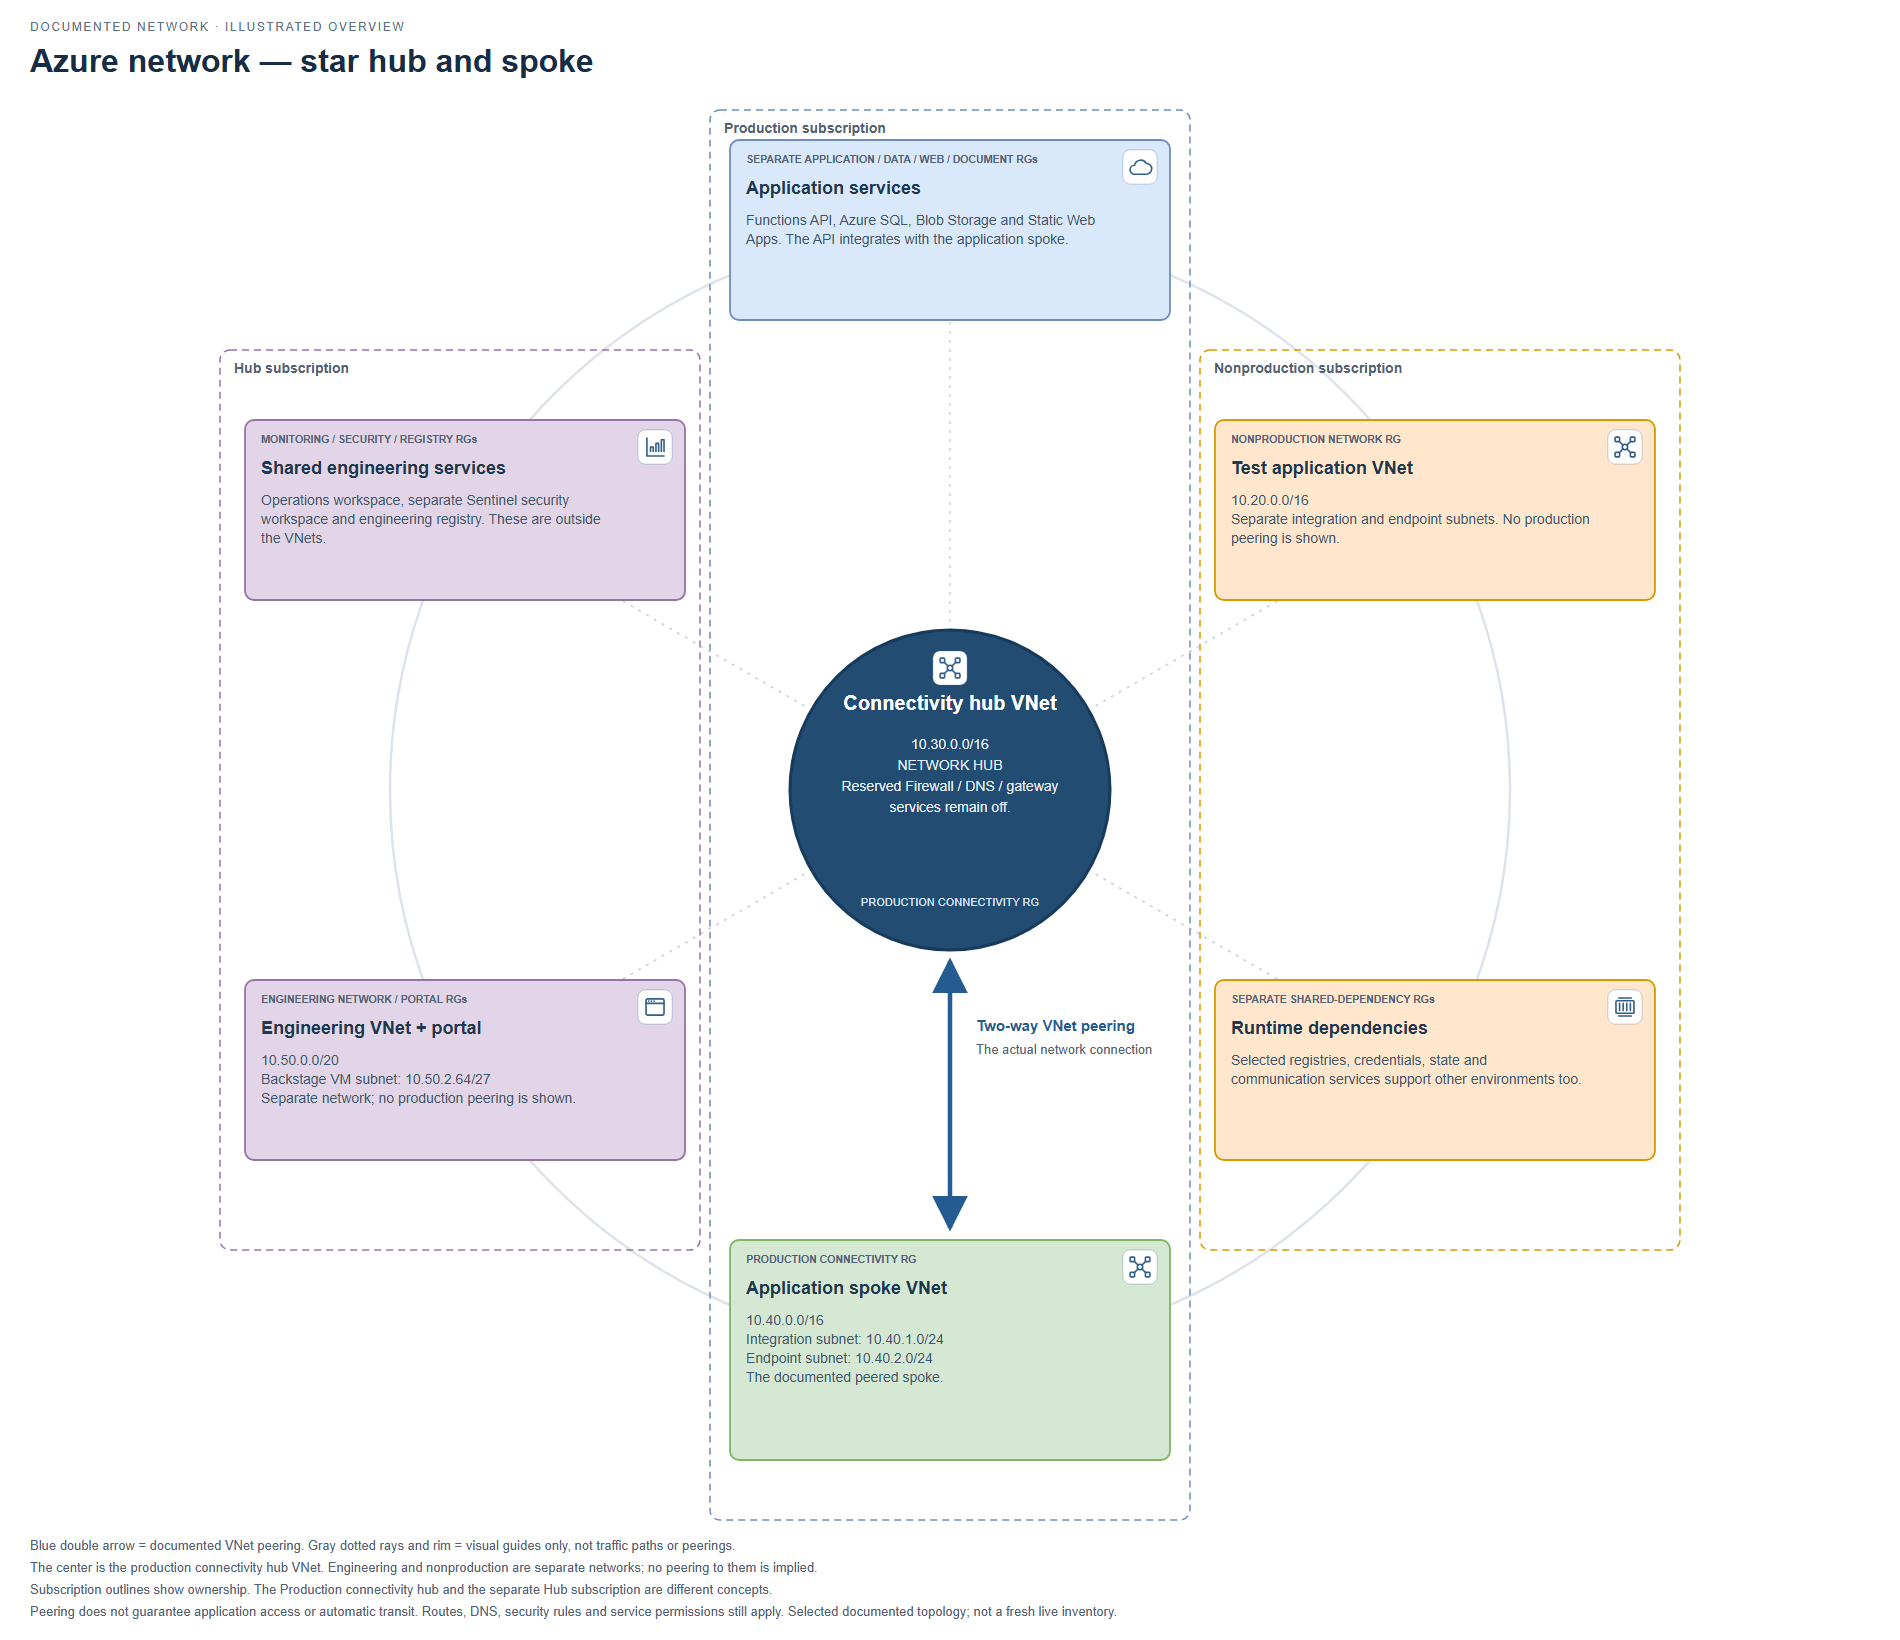
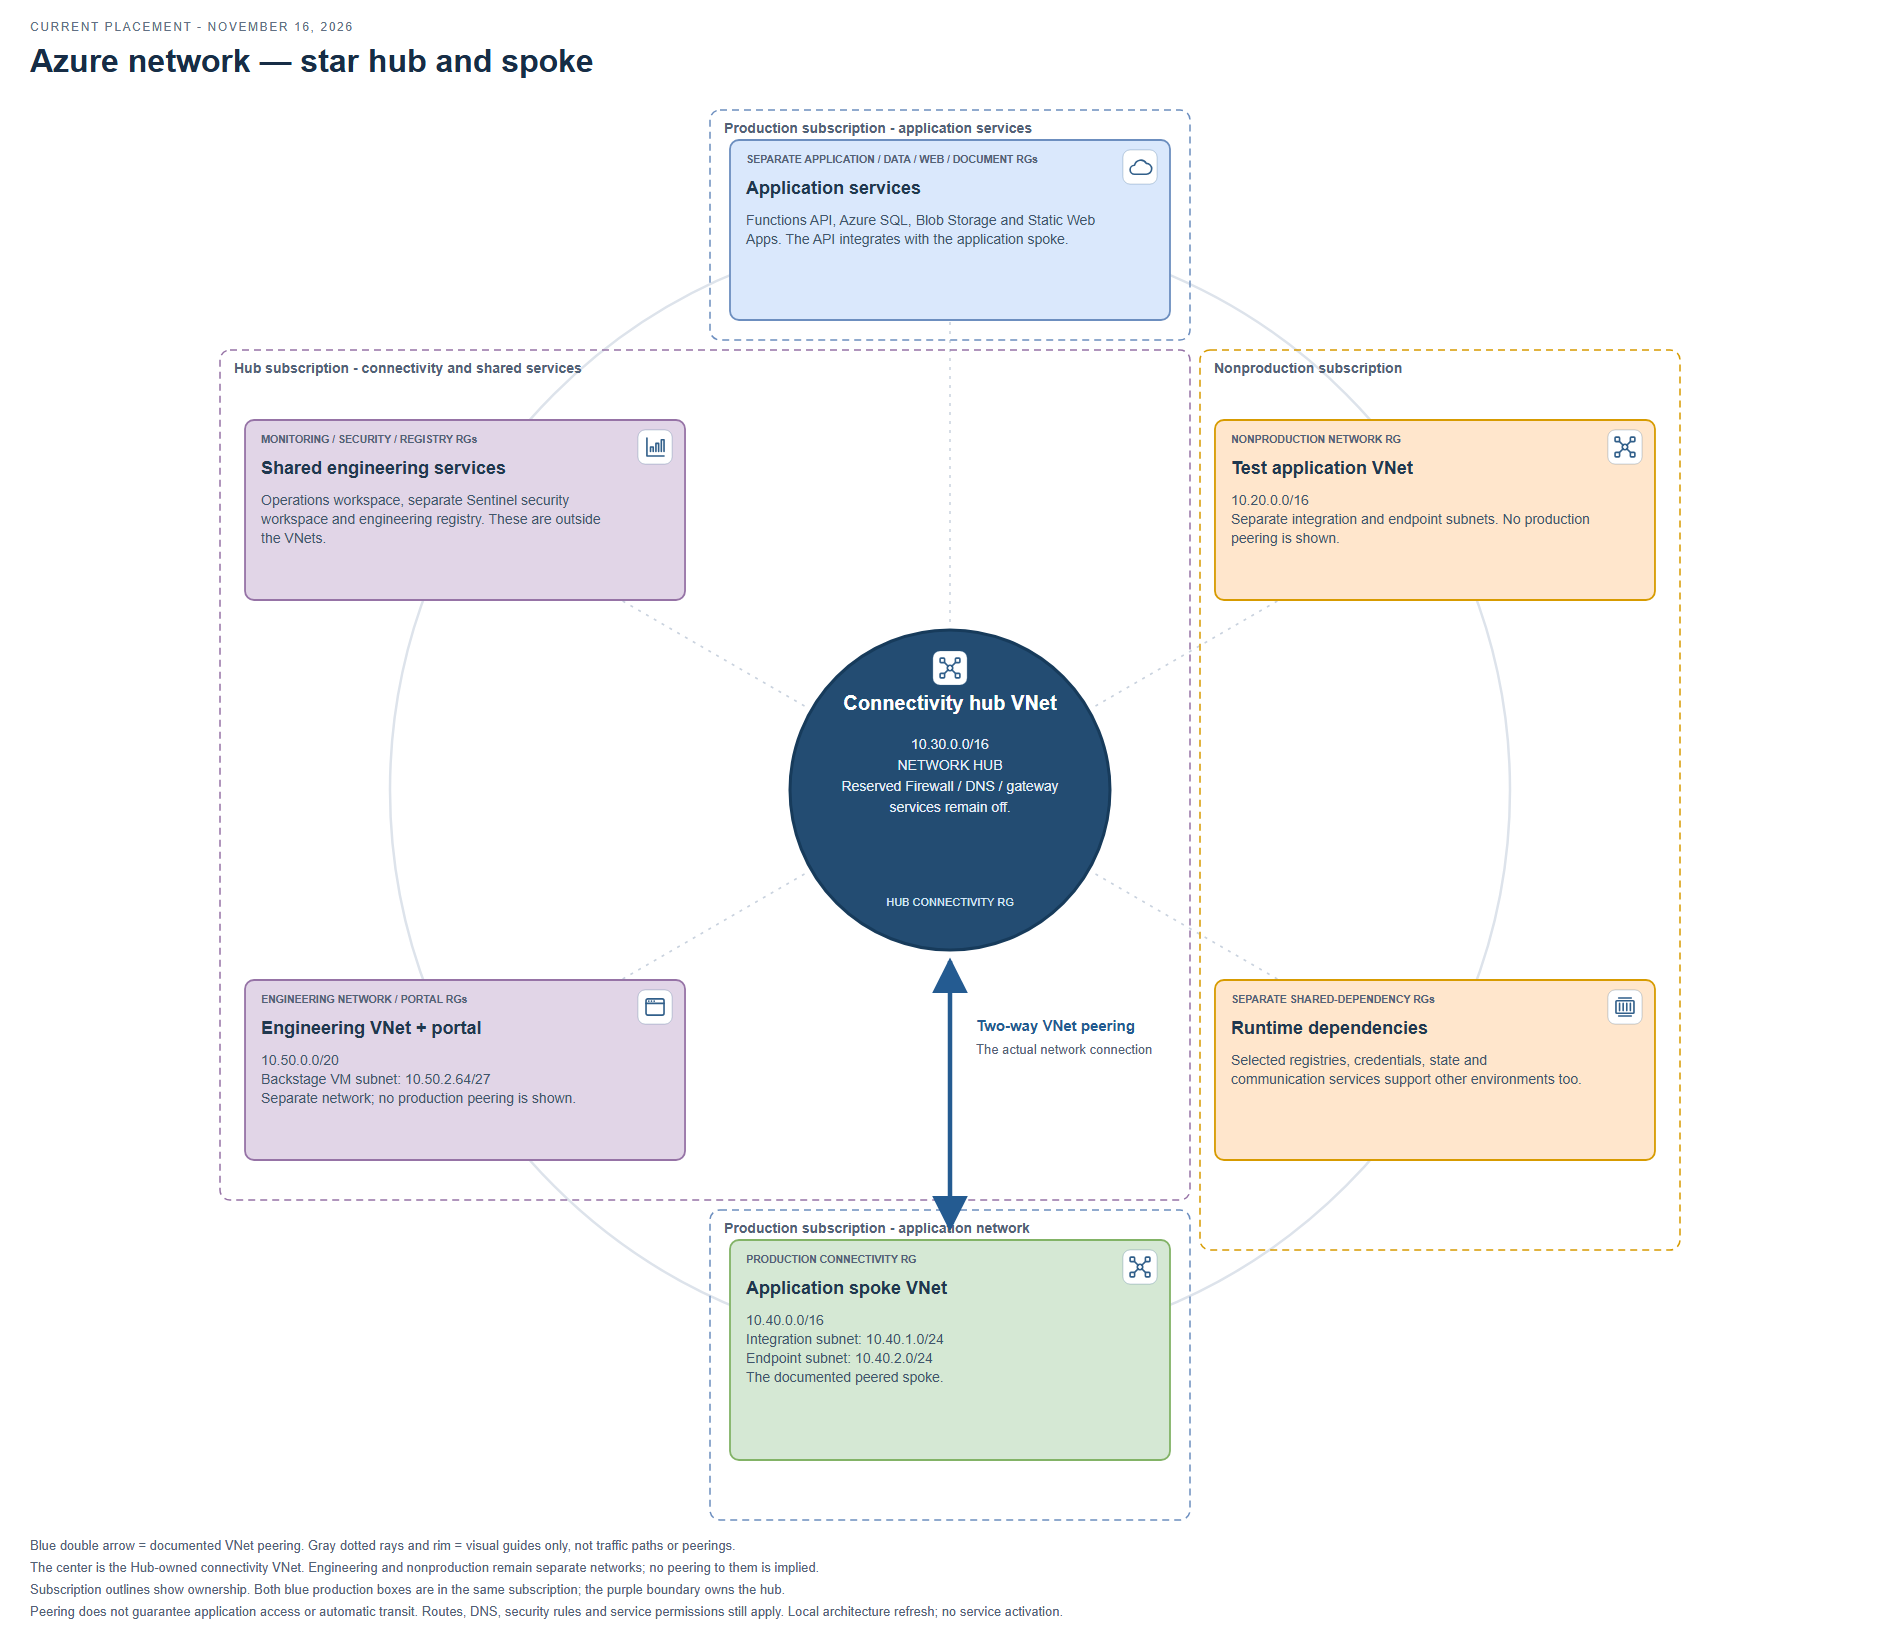
Refresh current hub subscription architecture diagram and guidance

diff --git a/README.md b/README.md
@@ -10,8 +10,10 @@
 
 > **Placement update - November 16, 2026:** the existing connectivity hub VNet
 > has moved into the Hub subscription; the application spoke remains in production.
-> Both peerings are Connected. The approved diagram and public source excerpts
-> below retain the pre-move placement as a teaching reference. See the
+> Both peerings are Connected. The diagram now shows this current ownership:
+> both blue boxes share the production subscription; the purple Hub boundary
+> contains the central VNet. The standalone Terraform lab retains its pre-move
+> single-subscription setup and is not the live state owner. See the
 > [completed migration and evidence limits](docs/ARCHITECTURE.md#connectivity-hub-subscription-placement---completed-november-16-2026).
 
 ## The Business Problem
@@ -30,14 +32,14 @@ Use a central network, called a hub, and a separate application network, called 
 
 ### Actual implementation
 
-- Production hub: **10.30.0.0/16**, peered in both directions with the production application spoke, **10.40.0.0/16**.
+- Hub-owned connectivity VNet: **10.30.0.0/16**, peered in both directions with the production-owned application spoke, **10.40.0.0/16**.
 - Production integration subnet: **10.40.1.0/24**; endpoint subnet: **10.40.2.0/24**; future integration reservation: **10.40.3.0/24**.
 - Separate nonproduction application network: **10.20.0.0/16**, using the reusable module.
 - Separate shared engineering-services VNet: **10.50.0.0/20**, owned by a different infrastructure root. The selected source does not define a production peering for this VNet.
 - Both production peerings allow VNet access and keep forwarded traffic, gateway transit and remote-gateway use **Off**.
 - Firewall, resolver and gateway subnet reservations do **not** create those services.
 
-The project includes actual selected Terraform with example resource names, plus a small new offline topology viewer and address-policy checks. This is evidence based on the source code, not a fresh Azure inventory or live packet test. [Source mapping](docs/SOURCE-MAP.md).
+The project includes selected pre-move Terraform with example resource names, a current ownership diagram, an offline topology viewer and address-policy checks. This is evidence based on the source code, not a fresh Azure inventory or live packet test. [Source mapping](docs/SOURCE-MAP.md).
 
 ## Tools Used and What They Do
 
@@ -273,7 +275,7 @@ The isolated boxes are deliberate: the selected source does not prove a route fr
 | Component | Purpose | Source |
 | --- | --- | --- |
 | Reusable network module | Resource group, VNet, delegated Functions integration and endpoint subnet | [Module](infra/modules/network/) |
-| Production hub and spoke | Actual address plan, reservations and peering configured in both directions | [Hub](infra/modules/foundation/hub.tf) · [Spoke](infra/modules/foundation/network.tf) |
+| Pre-move hub/spoke Terraform reference | Actual address plan, reservations and peering intent; retained single-root lab ownership | [Hub](infra/modules/foundation/hub.tf) · [Spoke](infra/modules/foundation/network.tf) |
 | Default-Off public wrapper | Make local validation reproducible without selecting cloud resources by default | [Root](infra/main.tf) |
 | Nonproduction network reference | Show environment-specific inputs to the same module | [Source](reference/nonproduction/network.tf) |
 | Shared engineering VNet reference | Show separate network ownership and reserved managed-service subnets | [Source](reference/shared-services/network.tf) |

diff --git a/docs/SOURCE-MAP.md b/docs/SOURCE-MAP.md
@@ -7,7 +7,7 @@
 | Source area | Public use | Adaptation |
 | --- | --- | --- |
 | Reusable network module | Executable Terraform module | Names retained internally where historical addresses matter; added read-only address-space output for inspection |
-| Production network + hub | Executable selected foundation | Neutral resource labels; network module relative path moved |
+| Pre-move production network + hub | Executable single-root lab foundation | Neutral labels; address plan/peering preserved, current cross-subscription state ownership is documented separately |
 | Owning production root context | New standalone wrapper | Public variables/tags/provider; outer activation defaults Off; no remote backend or live input file |
 | Nonproduction module call | Reference only | Neutral labels; owning-root context omitted |
 | Engineering-services network | Reference only | Neutral labels; no claimed production peering |
@@ -18,3 +18,12 @@
 The offline checks are deliberately narrow. They validate address consistency and selected source settings; they are not a Terraform parser, Azure route calculator or firewall/authentication simulator. Missing peerings mean “not defined in this selected source,” not proof that no alternative live route can exist anywhere.
 
 The shared-service resource definitions contain partial historical context. They establish declaration patterns, not a fresh live drift or permission readback. Infrastructure adoption and live source reconciliation require the actual owning state; this standalone example supplies no migration plan for those resources.
+
+## Current diagram - November 16, 2026
+
+The three architecture formats describe the accepted post-move placement: the
+connectivity VNet is Hub-owned, the application spoke stays production-owned,
+and the separate engineering VNet is unchanged. They replace the prior primary
+diagram in place. The original machine source map still identifies the retained
+Terraform excerpts; it is not a new source/state snapshot for the completed move.
+No private subscription IDs, state, credentials or employee data were added.

diff --git a/docs/ARCHITECTURE.md b/docs/ARCHITECTURE.md
@@ -46,12 +46,21 @@ readback verified the new IDs, subnet policies, peerings, unchanged engineering
 network, released state locks and production API HTTP 200. This does not claim
 a routed-packet test from the empty hub.
 
-**Reference boundary:** the approved November 15 diagrams and public Terraform
-excerpts remain pre-move teaching references. Their address plan and peering
-intent still apply; their subscription/group placement and single-root ownership
-must not be read as today's live placement. Do not apply this public example to
-adopt or modify the existing deployment. Updated artwork requires a separate
-preview; this closeout changes documentation only.
+**Diagram and code boundary:** the PNG, SVG and editable draw.io now show the
+accepted November 16 placement. The central VNet is inside the Hub subscription
+boundary. The two separated blue boxes have the same production subscription
+owner; they are not two subscriptions. The wheel positions, purpose icons and
+actual peering relationship are preserved. Gray dotted rays are visual guides,
+not routes or new peerings.
+
+The public Terraform excerpts and offline model remain the pre-move teaching
+reference. Their address plan and peering intent still apply, but their
+single-root ownership is not today's live state layout. The live connectivity
+root/state owns both peer children across subscriptions; it is separate from
+production's application-spoke owner and Hub monitoring. Backend storage location
+does not determine resource subscription ownership. Do not apply this public lab
+to adopt or modify the existing deployment. No cloud operation is performed by
+publishing the diagram. See [source mapping](SOURCE-MAP.md).
 
 See [Azure networking move limitations](https://learn.microsoft.com/en-us/azure/azure-resource-manager/management/move-limitations/networking-move-limitations),
 [changed IDs, dependencies and role-assignment requirements](https://learn.microsoft.com/en-us/azure/azure-resource-manager/management/move-resource-group-and-subscription),

diff --git a/docs/VALIDATION.md b/docs/VALIDATION.md
@@ -51,3 +51,18 @@ Documentation checks passed for both repositories: local links, balanced code fe
 Clarified the public recursive/authoritative resolution sequence and the difference between optional endpoint DNS metadata and actual NIC addresses. Added a guarded read-only NIC inspection example, link-state output, caller-level resolver caveats and companion wording corrections. Azure CLI help was inspected using a separate temporary configuration directory; no account or cloud resource was changed.
 
 The original dated inventory remains the evidence source; this review did not perform a new Azure inventory, private caller test or deployment. Functional test counts and screenshots remain unchanged.
+
+## Current architecture publication - November 16, 2026
+
+The primary PNG, SVG and draw.io were replaced with the reviewed current
+Hub-subscription placement. Model containment, label bounds, editable parent/edge
+references and PNG rendering were checked before publication; the PNG was
+visually reviewed. Icons, physical node positions and the actual peering edge
+were preserved. README, architecture, placement and source-map notes now agree.
+
+The same 14 offline topology tests and six-row demonstration passed again. Local
+Markdown destinations, diagram XML, private-identifier guards and whitespace
+checks passed. No Terraform source, source snapshot, cloud resource, service
+power state, paid network service or message changed. The existing workflow is
+manual-only and was not dispatched. These checks do not prove live packet flow
+or every caller's private path; earlier cloud acceptance retains its stated date.

diff --git a/docs/SHARED-SERVICES.md b/docs/SHARED-SERVICES.md
@@ -6,6 +6,12 @@ Treat three questions separately: who owns a resource, which network it uses, an
 
 ## Connectivity hub
 
+The November 16 move put the existing Central US connectivity VNet in the Hub
+subscription. The application spoke remains production-owned, and the engineering
+VNet remains separate. Subscription ownership does not create transit or put
+every shared service inside the central VNet. The [current diagram and boundaries](ARCHITECTURE.md)
+show this separation.
+
 Place shared transit/network services under connectivity ownership: gateway, inspected egress, resolver or management access when justified. Dedicated subnets preserve service requirements. The selected implementation reserves capacity but leaves Firewall, gateway and Private DNS Resolver services deferred. There is no claim of inspected egress or central spoke transit today.
 
 ## Shared-service boundary
